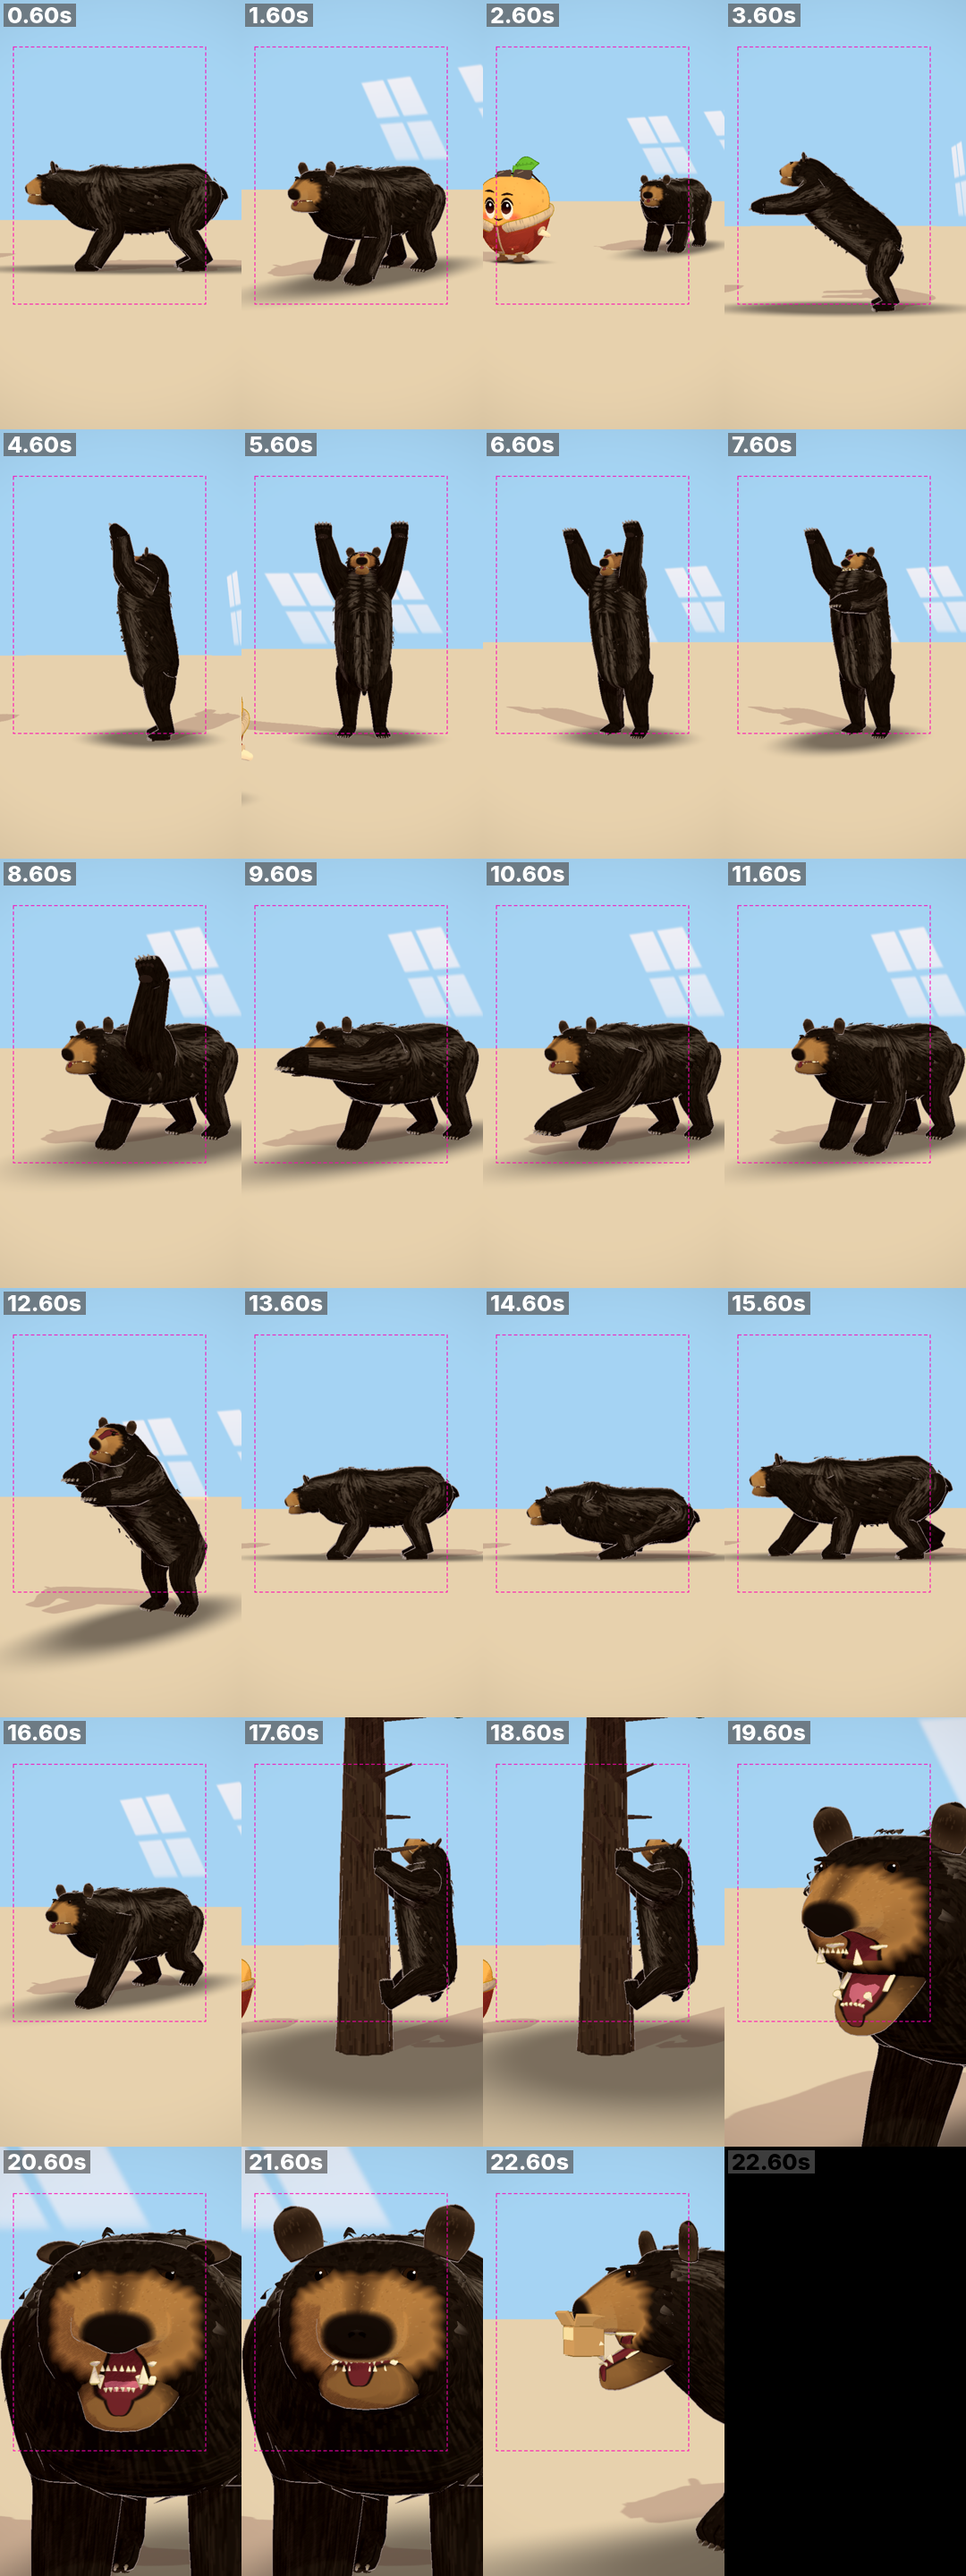
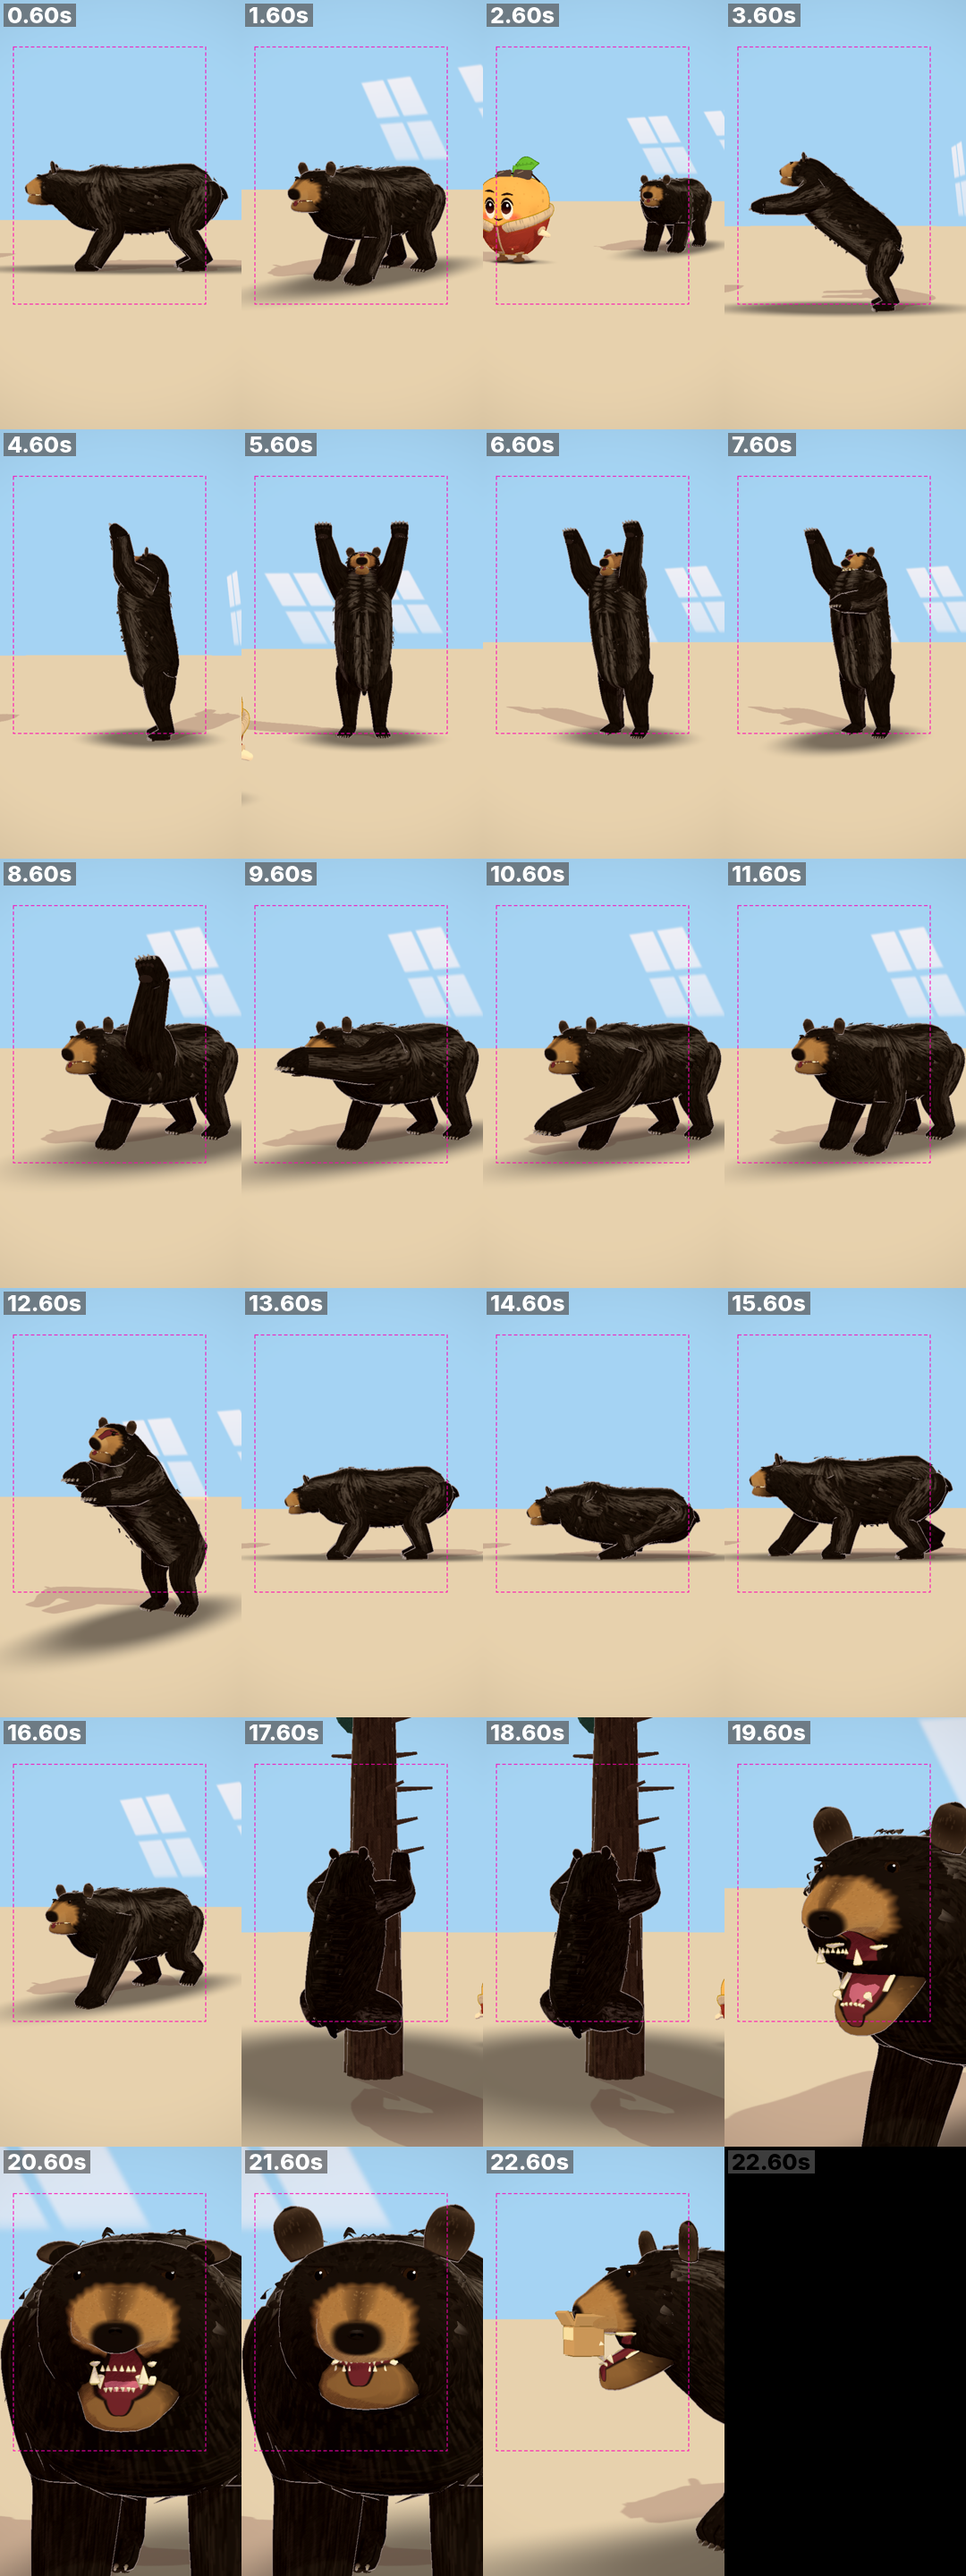
T2 fix: tan on the snout only, smaller nose pad, leaning climb
Claude-Session: https://claude.ai/code/session_01KjyEULwhyqjuPsC4yy1fND

diff --git a/engine/page/props-bear.js b/engine/page/props-bear.js
@@ -149,6 +149,7 @@ const LEGS = [
 // arm poses [phiH, phiF, wr, ex, wx] (degrees; metres sideways, + outward)
 const ARM = { hang: [15, 55, -25, 0.06, -0.02], reach: [69, 84, 0, 0.08, 0.06], high: [132, 170, -25, 0.16, 0.26] };
 const SWIPE = [[120, 175, -30, 0.22, 0.34], [80, 95, -15, 0.02, -0.26], [35, 60, 10, -0.02, -0.34]];   // A wind-up, B strike, C follow-through
+const CLIMB = { pitch: 74, pv: [0, 0.90, -0.46], foreA: 66, foreY: 2.30, hindA: 50, hindY: 0.62 };   // leaning 16 deg off the trunk, chest on the bark
 const BARK = { x: 0, z: 0.50, r: 0.35 };   // the climbed trunk's axis and radius, in the prop's frame
 const barkAt = (s, a, off, y) => [s * (BARK.r + off) * Math.sin(a), y, BARK.z - (BARK.r + off) * Math.cos(a)];
 const barkN = (s, a) => [s * Math.sin(a), 0, -Math.cos(a)];
@@ -170,8 +171,8 @@ function solve(ps) {
   const swipe = clamp(ps.swipe ?? 0), swS = (ps.swipeSide ?? 1) >= 0 ? 1 : -1, bell = Math.sin(Math.PI * swipe), swAct = sstep(swipe / 0.05) * (1 - sstep((swipe - 0.95) / 0.05));
   const sf = (((ps.sniff ?? 0) % 1) + 1) % 1, sk = Math.sin(Math.PI * sf) ** 2;
   // ---- trunk: pitch about the hips (negative = chest up), the hips move for the rear and the climb, roll and shift
-  const thDeg = -(82 * sr) * (1 - sc) - 86 * sc + 7 * bd * Math.sin(TAU * (g + 0.15)) * wk * (1 - sr) * (1 - sc), th = rad(thDeg);
-  const PV = mix3([0, 0.80 + 0.07 * sr, -0.76 + 0.06 * sr], [0, 0.90, -0.35], sc);
+  const thDeg = -(82 * sr) * (1 - sc) - CLIMB.pitch * sc + 7 * bd * Math.sin(TAU * (g + 0.15)) * wk * (1 - sr) * (1 - sc), th = rad(thDeg);
+  const PV = mix3([0, 0.80 + 0.07 * sr, -0.76 + 0.06 * sr], CLIMB.pv, sc);
   const valL = Math.cos(TAU * (g - 0.06)) * wk * (1 - sr);
   let rollD = -2 * valL + 5 * swS * bell, shx = 0.02 * valL - 0.04 * swS * bell;
   const cs = Math.cos(TAU * (ck - 0.3)) * wc; rollD += -4 * cs; shx += -0.03 * cs;
@@ -219,8 +220,8 @@ function solve(ps) {
       const qy = qY(yaw), zP = new THREE.Vector3(...arm.p).applyQuaternion(qy), yP = new THREE.Vector3(0, arm.p[2], -arm.p[1]).applyQuaternion(qy);
       let W = arm.W, E = arm.E, fq = basisQ(zP.toArray(), yP.toArray());
       if (sc > 0) {   // the climb: fore wrist on the bark at 60 deg, palm on it, toes up, claws in
-        const f = ((((ck + l.c) % 1) + 1) % 1), [dy, lf] = footPath(f, 0.36, 0.60, 0.06), a60 = rad(60), n = barkN(s, a60);
-        const Wc = barkAt(s, a60, 0.07, 2.17 + dy * wc); Wc[0] += n[0] * lf * wc; Wc[2] += n[2] * lf * wc;
+        const f = ((((ck + l.c) % 1) + 1) % 1), [dy, lf] = footPath(f, 0.36, 0.60, 0.06), a60 = rad(CLIMB.foreA), n = barkN(s, a60);
+        const Wc = barkAt(s, a60, 0.07, CLIMB.foreY + dy * wc); Wc[0] += n[0] * lf * wc; Wc[2] += n[2] * lf * wc;
         const Ec = ik3(Sh, Wc, FRONT.L1, FRONT.L2, [s, -0.6, -0.3]);
         E = mix3(E, Ec, sc); W = mix3(W, Wc, sc); fq = fq.slerp(basisQ([0, 1, 0], n), sc);
       }
@@ -231,8 +232,8 @@ function solve(ps) {
     const pitch = Math.min(rad(25), Math.asin(clamp(l.lift / 0.24)) * 0.95);
     let H = heel, fq = qY(s * rad(5 + 10 * sr)).multiply(qX(pitch)), pole = [0, 0, 1];
     if (sc > 0) {   // the climb: heel on the bark at 50 deg, sole flat on it, toes up
-      const f = ((((ck + l.c) % 1) + 1) % 1), [dy, lf] = footPath(f, 0.36, 0.60, 0.06), a50 = rad(50), n = barkN(s, a50);
-      const Hc = barkAt(s, a50, 0.10, 0.62 + dy * wc); Hc[0] += n[0] * lf * wc; Hc[2] += n[2] * lf * wc;
+      const f = ((((ck + l.c) % 1) + 1) % 1), [dy, lf] = footPath(f, 0.36, 0.60, 0.06), a50 = rad(CLIMB.hindA), n = barkN(s, a50);
+      const Hc = barkAt(s, a50, 0.10, CLIMB.hindY + dy * wc); Hc[0] += n[0] * lf * wc; Hc[2] += n[2] * lf * wc;
       H = mix3(heel, Hc, sc); fq = fq.slerp(basisQ([0, 1, 0], n), sc); pole = mix3(pole, [s, 0.3, 0.2], sc);
     }
     const Kn = ik3(Hp, H, HIND.L1, HIND.L2, pole), up = new THREE.Vector3(0, 0.09, 0).applyQuaternion(q), dK = nrm3([H[0] - Kn[0], H[1] - Kn[1], H[2] - Kn[2]]);
@@ -295,20 +296,20 @@ const bodyTex = () => once("bearBodyT2", () => cvs(1024, 512, (g, W, H) => {
   // the tan muzzle: a soft uneven edge from the top of row 14.6 down and back to the mouth corner at row 13.6
   const nz = (y, k) => 0.5 + 0.5 * (0.6 * Math.sin(y * 0.09 + rnd(k) * 6) + 0.4 * Math.sin(y * 0.31 + rnd(k + 5) * 6));
   for (let y = 0; y < H; y += 2) {
-    const d = Math.abs(y / H - 0.5) * 2, b = W * rowU(14.6) + (W * rowU(13.6) - W * rowU(14.6)) * sstep(d / 0.9) + (nz(y, 3) - 0.5) * 16;
-    const gg = g.createLinearGradient(b - 16, 0, b + 14, 0); gg.addColorStop(0, "rgba(110,75,42,0)"); gg.addColorStop(0.45, "rgba(110,75,42,0.95)"); gg.addColorStop(1, css(rgbOf(TAN), 1));
-    g.fillStyle = gg; g.fillRect(b - 16, y, W - b + 16, 2.2);
+    const d = Math.abs(y / H - 0.5) * 2, b = W * rowU(15.15) + (W * rowU(14.75) - W * rowU(15.15)) * sstep(d / 0.9) + (nz(y, 3) - 0.5) * 12;
+    const gg = g.createLinearGradient(b - 14, 0, b + 12, 0); gg.addColorStop(0, "rgba(110,75,42,0)"); gg.addColorStop(0.45, "rgba(110,75,42,0.95)"); gg.addColorStop(1, css(rgbOf(TAN), 1));
+    g.fillStyle = gg; g.fillRect(b - 14, y, W - b + 14, 2.2);
   }
   const lx = W * rowU(15.4);   // lighter tan beside the nose and along the lips' edge
   for (const [y0, dir] of [[0, 1], [H, -1]]) { const gg = g.createLinearGradient(0, y0, 0, y0 + dir * H * 0.32); gg.addColorStop(0, "rgba(201,160,104,0.85)"); gg.addColorStop(1, "rgba(201,160,104,0)"); g.fillStyle = gg; g.fillRect(lx, dir > 0 ? y0 : y0 - H * 0.32, W - lx, H * 0.32); }
-  const bx0 = W * rowU(14.6), bx1 = bx0 + (W - bx0) * 0.6;   // the bridge: darker along the top of the nose
+  const bx0 = W * rowU(15.2), bx1 = bx0 + (W - bx0) * 0.6;   // the bridge: darker along the top of the nose
   { const gg = g.createLinearGradient(0, H * 0.44, 0, H * 0.56); gg.addColorStop(0, "rgba(90,61,36,0)"); gg.addColorStop(0.5, "rgba(90,61,36,0.95)"); gg.addColorStop(1, "rgba(90,61,36,0)"); g.fillStyle = gg; g.fillRect(bx0, H * 0.4, bx1 - bx0, H * 0.2); g.fillStyle = gg; g.fillRect(bx1, H * 0.46, 40, H * 0.08); }
   for (let i = 0; i < 500; i++) {   // very short strokes in the tan
     const x = bx0 + rnd(i * 3 + 9001) * (W - bx0), y = rnd(i * 3 + 9002) * H, l = 4 + 2 * rnd(i + 9003); g.strokeStyle = i % 2 ? "rgba(138,95,51,0.5)" : "rgba(201,160,104,0.5)"; g.lineWidth = 1.3;
     g.beginPath(); g.moveTo(x, y); g.lineTo(x - l, y + (y < H / 2 ? -1 : 1) * l * 0.25); g.stroke();
   }
-  g.fillStyle = "#15110f"; g.fillRect(W * rowU(17.3), 0, W, H);   // rows 17-18: the nose pad is black (from the middle of row 17: the pad is 0.07 wide)
-  { const gg = g.createLinearGradient(W * rowU(16.8), 0, W * rowU(17.3), 0); gg.addColorStop(0, "rgba(21,17,15,0)"); gg.addColorStop(1, "rgba(21,17,15,1)"); g.fillStyle = gg; g.fillRect(W * rowU(16.8), 0, W * (rowU(17.3) - rowU(16.8)), H); }
+  g.fillStyle = "#15110f"; g.fillRect(W * rowU(17.85), 0, W, H);   // rows 17-18: the nose pad is black (from the middle of row 17: the pad is 0.07 wide)
+  { const gg = g.createLinearGradient(W * rowU(17.45), 0, W * rowU(17.85), 0); gg.addColorStop(0, "rgba(21,17,15,0)"); gg.addColorStop(1, "rgba(21,17,15,1)"); g.fillStyle = gg; g.fillRect(W * rowU(17.45), 0, W * (rowU(17.85) - rowU(17.45)), H); }
   // the mouth roof (4.5 % of H each side) and the black lip line beside it
   const rx0 = W * rowU(13.6), rx1 = W * rowU(16.4);
   g.fillStyle = INSIDE; g.fillRect(rx0, 0, rx1 - rx0, H * 0.03); g.fillRect(rx0, H * 0.97, rx1 - rx0, H * 0.03);
@@ -351,7 +352,7 @@ const clawTex = () => once("bearClawT2", () => cvs(8, 64, (g, W, H) => { const g
 const noseTex = () => once("bearNoseT2", () => cvs(128, 64, (g, W, H) => {   // the front of the sphere is u 0.25; the comma nostrils
   g.fillStyle = "#15110f"; g.fillRect(0, 0, W, H);
   const gr = g.createRadialGradient(W * 0.25, H * 0.3, 2, W * 0.25, H * 0.3, 16); gr.addColorStop(0, "rgba(90,84,78,0.5)"); gr.addColorStop(1, "rgba(90,84,78,0)"); g.fillStyle = gr; g.fillRect(0, 0, W, H);
-  g.fillStyle = "#040302"; for (const k of [-1, 1]) { g.beginPath(); g.ellipse(W * (0.25 + k * 0.05), H * 0.58, 4.5, 3.2, k * 0.5, 0, TAU); g.fill(); g.beginPath(); g.ellipse(W * (0.25 + k * 0.07), H * 0.64, 2.6, 1.6, k * 0.9, 0, TAU); g.fill(); }
+  g.fillStyle = "#040302"; for (const k of [-1, 1]) { g.beginPath(); g.ellipse(W * (0.25 + k * 0.045), H * 0.55, 6, 4, k * 0.5, 0, TAU); g.fill(); g.beginPath(); g.ellipse(W * (0.25 + k * 0.07), H * 0.62, 3.4, 2, k * 0.9, 0, TAU); g.fill(); }
 }));
 const fleck = (base, seed = 1, n = 60, a = 0.14) => once(`bf${base}${seed}`, () => cvs(64, 64, (g, W, H) => {
   g.fillStyle = base; g.fillRect(0, 0, W, H);
@@ -542,7 +543,7 @@ export const BEAR_KINDS = {
     const tongue = makeLoft([[0.80, 0.03, 0.006], [0.85, 0.042, 0.006], [0.91, 0.045, 0.006], [0.95, 0.035, 0.006], [0.975, 0.02, 0.005]].map(([z, w, u]) => mkSec([0, 0.769 - JH[1], z - JH[2]], w, u, u, 2.2)), { sub: 3, radial: 12 });
     mesh(tongue, tongueM, jawG).castShadow = false;
     // nose pad cap: a wet squashed sphere with two comma nostrils
-    const nose = mesh(new THREE.SphereGeometry(1, 20, 12).scale(0.0375, 0.025, 0.015), noseM, headG, ...rel([0, 0.845, 1.03]));
+    const nose = mesh(new THREE.SphereGeometry(1, 20, 12).scale(0.027, 0.014, 0.013), noseM, headG, ...rel([0, 0.84, 1.034]));
     // snarl wrinkles: three dark arcs across the bridge
     const wrinkles = [0.90, 0.925, 0.95].map((z) => {
       const pts = [-0.05, -0.025, 0, 0.025, 0.05].map((x) => new THREE.Vector3(x, muzzleTop(z, x) - muzzleTop(z, 0) + 0.002, 0));
@@ -589,7 +590,7 @@ export const BEAR_KINDS = {
           e.g.rotation.set(rad(fwd), 0, -e.s * rad(out)); e.g.scale.set(1, ev >= 0 ? 1 : 1 + 0.4 * ev, 1);
         }
         // nose: wet cap lifts and flares with sniff, rises with snarl
-        nose.position.set(...rel([0, 0.845 + 0.012 * Z.sk + 0.008 * sn, 1.03])); nose.scale.set(1 + 0.12 * Z.sk, 1, 1);
+        nose.position.set(...rel([0, 0.84 + 0.012 * Z.sk + 0.008 * sn, 1.034])); nose.scale.set(1 + 0.12 * Z.sk, 1, 1);
         wrinkles.forEach((g) => { g.visible = sn > 0.02; g.scale.set(Math.max(sn, 0.001), Math.max(sn, 0.001), Math.max(sn, 0.001)); });
         face.apply(ps);
         // legs: lofts and rigid paws
